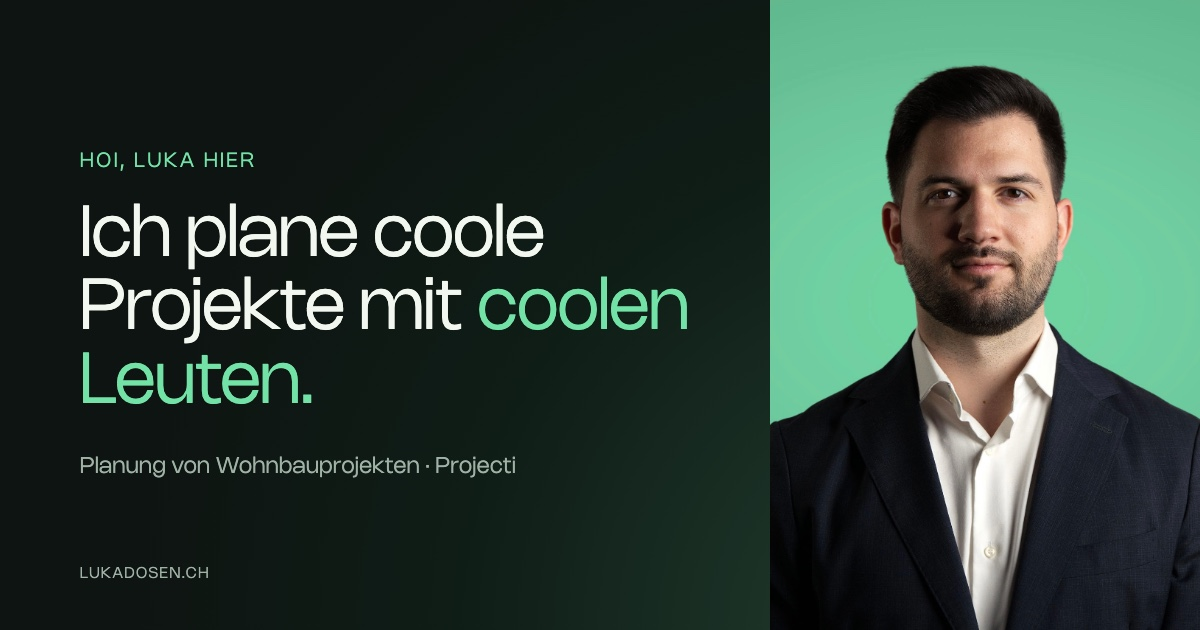
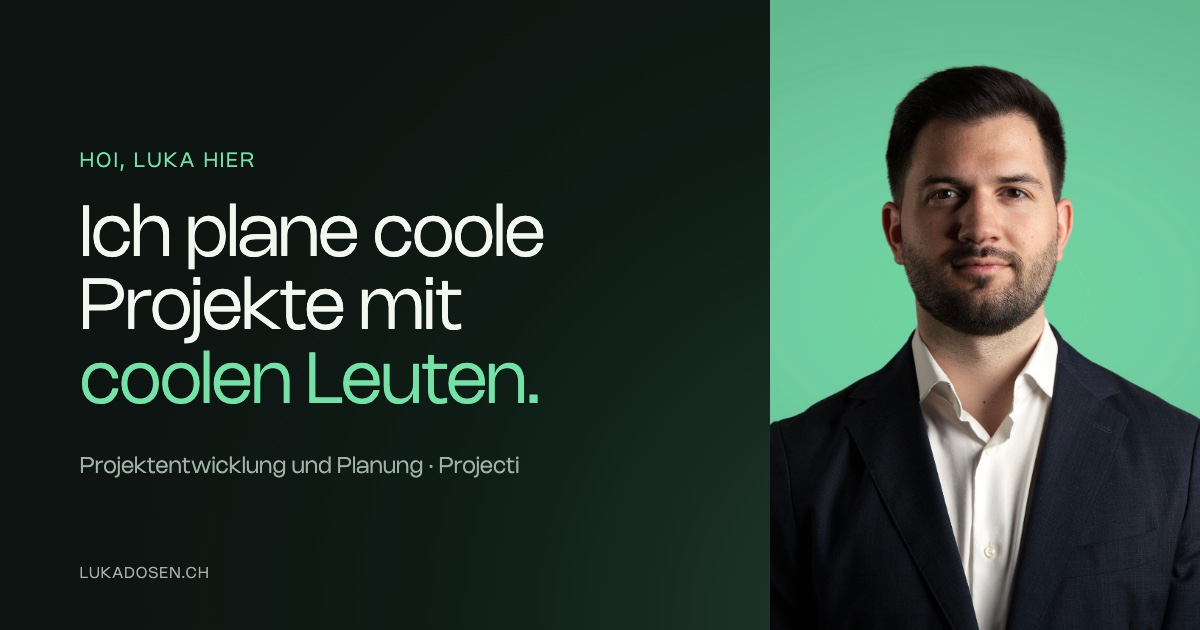
copy(landing): title, alt text and social image say "Projektentwicklung und Planung"

Changed region(s): [[0.0617, 0.5429, 0.4625, 0.6635], [0.4008, 0.4524, 0.5858, 0.5429], [0.0617, 0.7238, 0.4317, 0.754]]

diff --git a/src/lib/seo.ts b/src/lib/seo.ts
@@ -12,7 +12,7 @@ export const OG_IMAGE = isLanding
 export const OG_LOCALE = isLanding ? 'de_CH' : 'en_US'
 
 export const HOME_TITLE = isLanding
-  ? 'Luka Došen | Planung von Wohnbauprojekten'
+  ? 'Luka Došen | Projektentwicklung und Planung'
   : 'Luka Došen | Planning & Building: Projects & Systems'
 export const HOME_DESCRIPTION = isLanding
   ? 'Mit Projecti begleite ich Immobilienentwickler, Investoren und private Bauherren vom ersten Entwicklungskonzept bis zur baureifen Planung.'

diff --git a/src/lib/landingContent.ts b/src/lib/landingContent.ts
@@ -12,7 +12,7 @@ export type LandingLink = {
 export const landingContent = {
   portrait: {
     src: "/2026-portrait-luka-mint.jpg",
-    alt: "Luka Došen, Planung von Wohnbauprojekten",
+    alt: "Luka Došen, Projektentwicklung und Planung",
   },
   eyebrow: "Hoi, Luka hier",
   title: {
